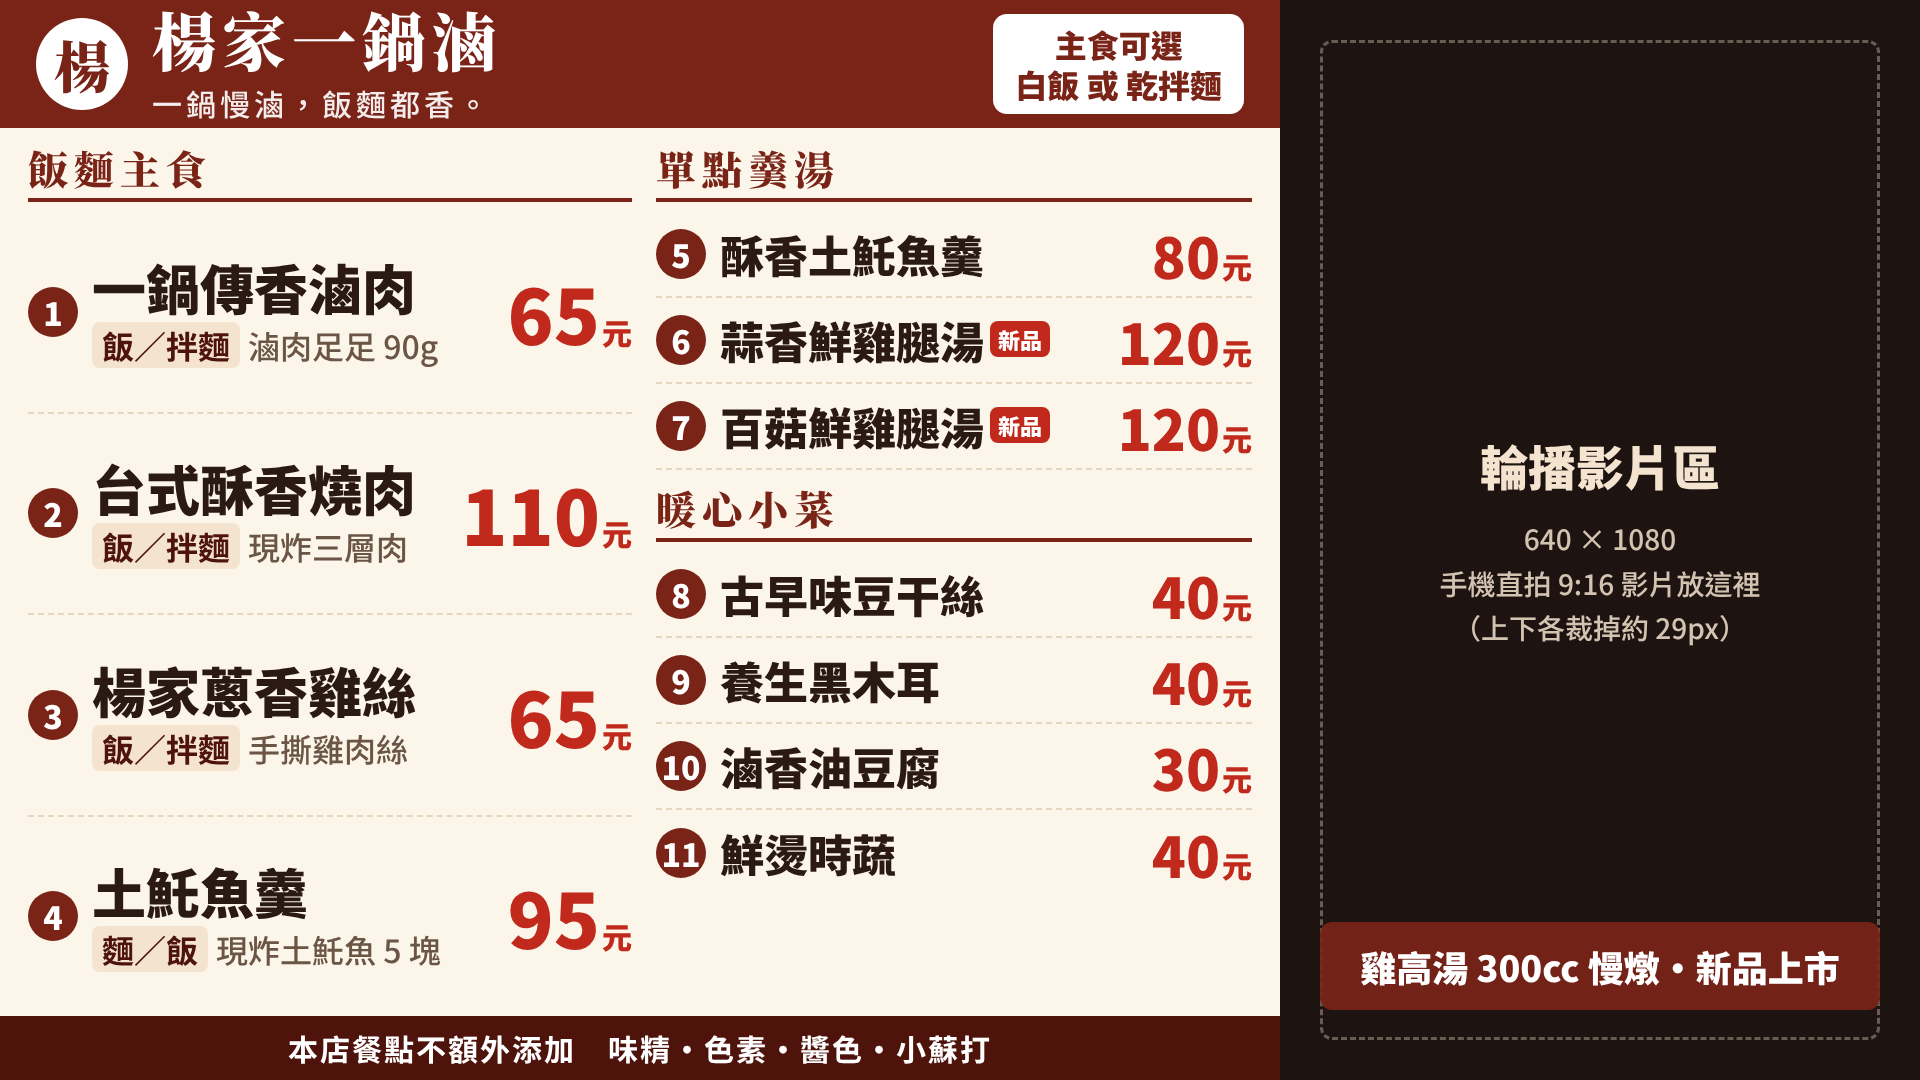
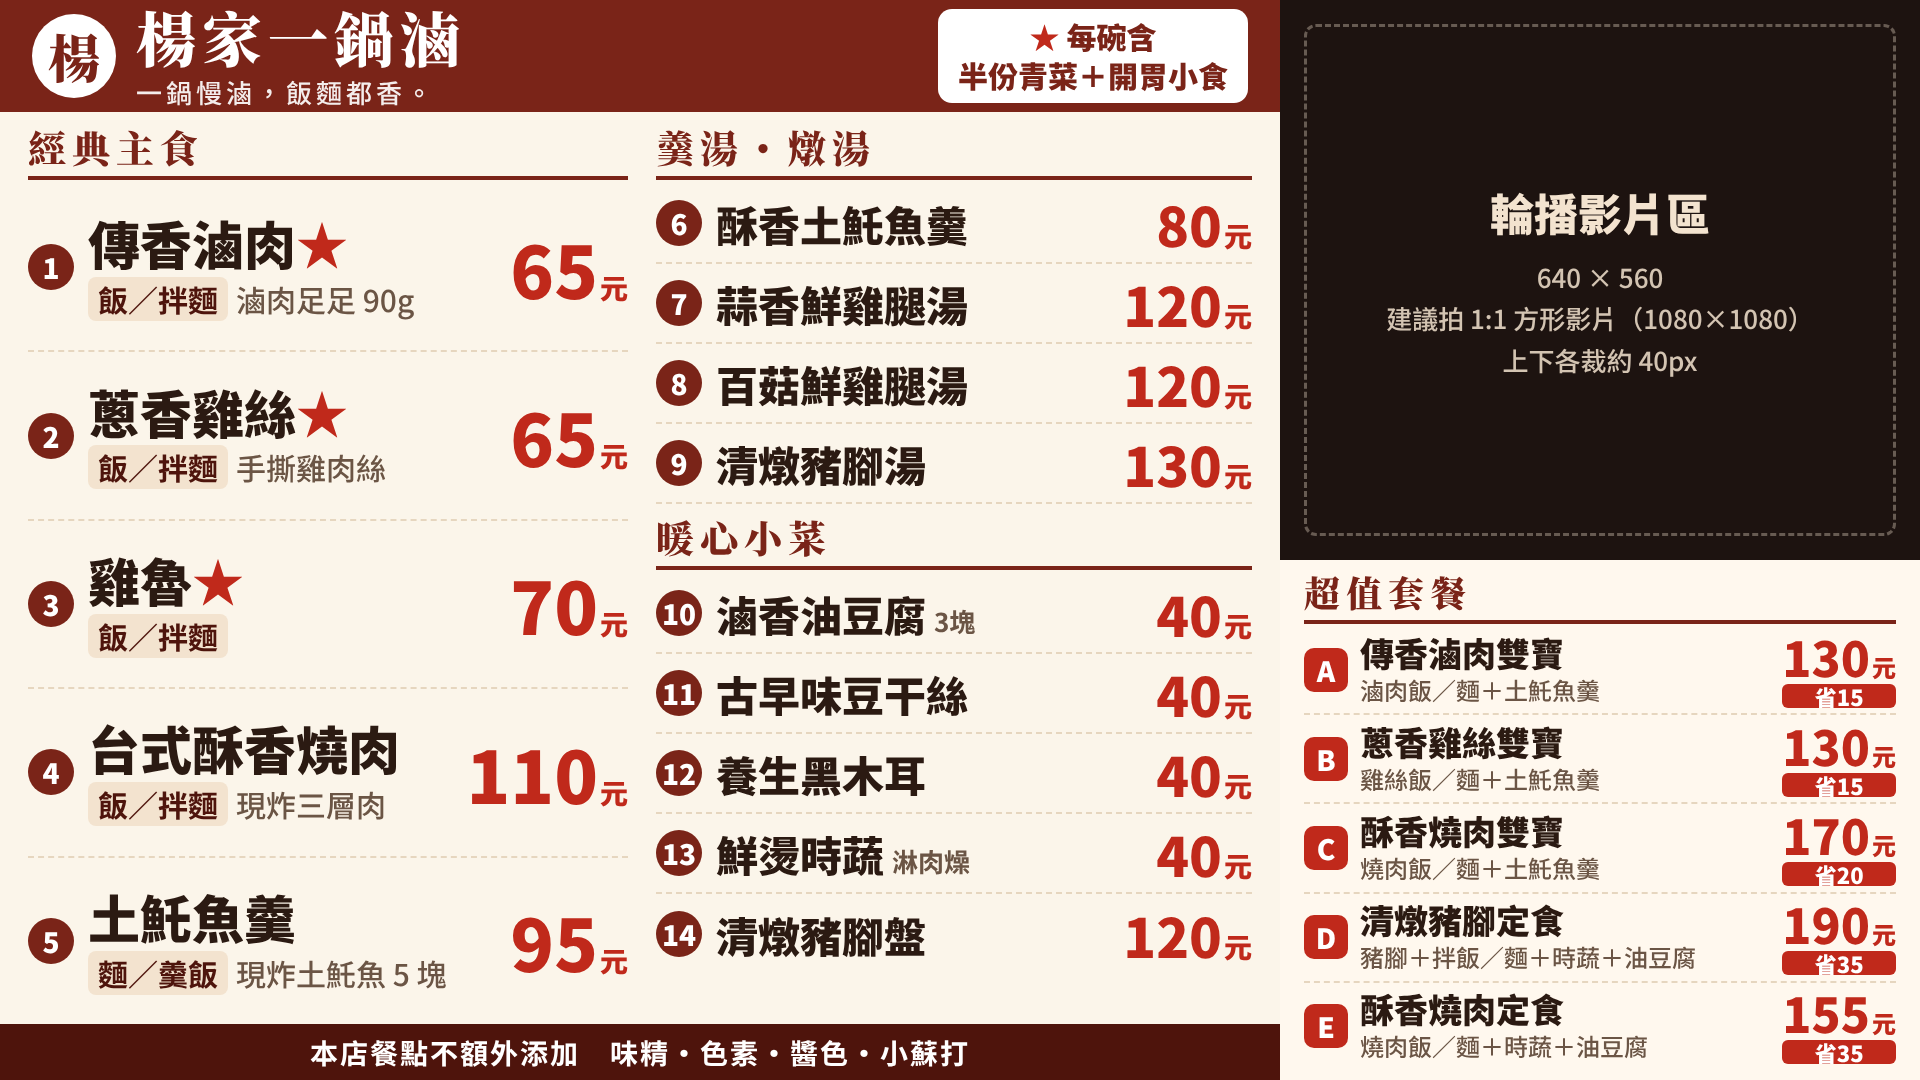
電視菜單依 A4 菜單 20261009 版更新：14 單品＋5 套餐
- 右 1/3 改為上方影片 640x560、下方超值套餐常駐
- E 套餐省額依單點價改為省35（110+40+40=190，190-155）

Claude-Session: https://claude.ai/code/session_012jfQNnpYWtyMBAdRHKhcxR

diff --git a/tv-menu/menu.html b/tv-menu/menu.html
@@ -5,16 +5,19 @@
 <title>楊家一鍋滷 電視菜單</title>
 <link href="https://fonts.googleapis.com/css2?family=Noto+Sans+TC:wght@500;700;900&family=Noto+Serif+TC:wght@700;900&display=swap" rel="stylesheet">
 <style>
-  /* 畫布固定 1920x1080（Full HD），左 2/3 菜單 1280px，右 1/3 影片 640px */
+  /* 畫布固定 1920x1080（Full HD）
+     左 2/3（1280px）：單點價目，常駐不輪播
+     右 1/3（640px）：上方輪播影片 640x560、下方超值套餐，常駐
+     資料來源：單色點餐菜單 A4 版 20261009 */
   :root {
     --brand: #7a2418;
     --brand-dark: #4e140c;
     --cream: #fbf5ea;
-    --card: #ffffff;
     --line: #e6d6bf;
     --ink: #2b1a12;
     --sub: #6b5545;
     --price: #c0291b;
+    --tag: #f3e3cf;
   }
   * { margin: 0; padding: 0; box-sizing: border-box; }
   body { width: 1920px; height: 1080px; overflow: hidden; background: var(--cream);
@@ -22,59 +25,68 @@
 
   .menu { width: 1280px; height: 1080px; display: flex; flex-direction: column; }
 
-  header { height: 128px; background: var(--brand); color: #fff; display: flex; align-items: center;
-           padding: 0 36px; gap: 24px; }
-  .logo { width: 92px; height: 92px; border-radius: 50%; background: #fff; color: var(--brand);
-          font: 900 56px/92px "Noto Serif TC", serif; text-align: center; flex: none; }
-  .brand h1 { font: 900 64px/1.1 "Noto Serif TC", serif; letter-spacing: 6px; }
-  .brand p { font-size: 30px; margin-top: 8px; opacity: .92; letter-spacing: 4px; }
+  header { height: 112px; background: var(--brand); color: #fff; display: flex; align-items: center;
+           padding: 0 32px; gap: 20px; flex: none; }
+  .logo { width: 84px; height: 84px; border-radius: 50%; background: #fff; color: var(--brand);
+          font: 900 52px/84px "Noto Serif TC", serif; text-align: center; flex: none; }
+  .brand h1 { font: 900 60px/1.1 "Noto Serif TC", serif; letter-spacing: 6px; }
+  .brand p { font-size: 26px; margin-top: 4px; opacity: .92; letter-spacing: 4px; }
   .tip { margin-left: auto; background: #fff; color: var(--brand); border-radius: 14px;
-         padding: 10px 22px; font-size: 32px; font-weight: 900; line-height: 1.25; text-align: center; }
+         padding: 8px 20px; font-size: 30px; font-weight: 900; line-height: 1.3; text-align: center; }
 
-  .body { flex: 1; display: flex; gap: 24px; padding: 20px 28px 0; }
+  .body { flex: 1; display: flex; gap: 28px; padding: 16px 28px 0; min-height: 0; }
   .col { display: flex; flex-direction: column; min-width: 0; }
-  .col.main { flex: 0 0 604px; }
+  .col.main { flex: 0 0 600px; }
   .col.side { flex: 1; }
-  h2 { font: 900 40px/1 "Noto Serif TC", serif; color: var(--brand); letter-spacing: 6px;
-       border-bottom: 4px solid var(--brand); padding-bottom: 10px; margin-bottom: 10px; }
-  h2 small { font: 700 26px "Noto Sans TC"; letter-spacing: 1px; color: var(--sub); margin-left: 10px; }
+  h2 { font: 900 38px/1 "Noto Serif TC", serif; color: var(--brand); letter-spacing: 6px;
+       border-bottom: 4px solid var(--brand); padding-bottom: 10px; margin-bottom: 4px; flex: none; }
 
   .row { display: flex; align-items: center; gap: 14px; border-bottom: 2px dashed var(--line); }
   .row:last-child { border-bottom: 0; }
-  .no { width: 50px; height: 50px; border-radius: 50%; background: var(--brand); color: #fff;
-        font: 900 32px/50px "Noto Sans TC"; text-align: center; flex: none; }
+  .no { width: 46px; height: 46px; border-radius: 50%; background: var(--brand); color: #fff;
+        font: 900 28px/46px "Noto Sans TC"; text-align: center; flex: none; }
   .name { flex: 1; min-width: 0; }
   .name b { display: block; font-weight: 900; white-space: nowrap; }
+  .name b small { font-size: .62em; color: var(--sub); font-weight: 700; margin-left: 8px; }
   .name i { display: block; font-style: normal; color: var(--sub); white-space: nowrap; }
   .price { color: var(--price); font-weight: 900; white-space: nowrap; flex: none; }
-  .price span { font-size: 30px; margin-left: 2px; }
+  .price span { font-size: 28px; margin-left: 2px; }
 
   /* 主食：字最大 */
   .main .row { flex: 1; }
-  .main .name b { font-size: 54px; line-height: 1.15; }
-  .main .name i { font-size: 32px; margin-top: 4px; }
-  .main .name i em { font-style: normal; background: #f3e3cf; color: var(--brand-dark);
+  .main .name b { font-size: 52px; line-height: 1.15; }
+  .main .name i { font-size: 30px; margin-top: 4px; }
+  .main .name i em { font-style: normal; background: var(--tag); color: var(--brand-dark);
                      padding: 0 10px; border-radius: 8px; margin-right: 8px; font-weight: 700; }
-  .main .price { font-size: 76px; }
+  .main .price { font-size: 72px; }
+  .star { color: var(--price); }
 
-  .side .row { height: 86px; }
-  .side .name b { font-size: 44px; }
-  .side .price { font-size: 56px; }
-  .new { display: inline-block; background: var(--price); color: #fff; font-size: 22px;
-         padding: 2px 8px; border-radius: 8px; margin-left: 6px; vertical-align: 10px; font-weight: 900; }
-  .gap { height: 18px; }
+  .side .row { height: 80px; }
+  .side .name b { font-size: 42px; }
+  .side .price { font-size: 54px; }
+  .gap { height: 14px; flex: none; }
 
-  footer { height: 64px; background: var(--brand-dark); color: #fff; font-size: 30px; font-weight: 700;
-           display: flex; align-items: center; justify-content: center; letter-spacing: 2px; }
+  footer { height: 56px; background: var(--brand-dark); color: #fff; font-size: 28px; font-weight: 700;
+           display: flex; align-items: center; justify-content: center; letter-spacing: 2px; flex: none; }
 
-  /* 右 1/3：輪播影片區（示意） */
-  .video { width: 640px; height: 1080px; background: #1d1310; color: #f3e3cf; position: relative;
+  /* 右 1/3 */
+  .right { width: 640px; height: 1080px; display: flex; flex-direction: column; background: var(--brand-dark); }
+  .video { height: 560px; background: #1d1310; color: #f3e3cf; position: relative; flex: none;
            display: flex; flex-direction: column; align-items: center; justify-content: center; text-align: center; }
-  .video .safe { position: absolute; inset: 40px; border: 3px dashed rgba(243,227,207,.35); border-radius: 12px; }
-  .video h3 { font-size: 48px; font-weight: 900; }
-  .video p { font-size: 28px; margin-top: 16px; line-height: 1.6; opacity: .85; }
-  .video .cap { position: absolute; bottom: 70px; left: 40px; right: 40px; background: rgba(122,36,24,.92);
-                color: #fff; font-size: 36px; font-weight: 900; padding: 18px; border-radius: 12px; }
+  .video .safe { position: absolute; inset: 24px; border: 3px dashed rgba(243,227,207,.35); border-radius: 12px; }
+  .video h3 { font-size: 44px; font-weight: 900; }
+  .video p { font-size: 26px; margin-top: 12px; line-height: 1.6; opacity: .85; }
+
+  .combo { flex: 1; background: #fff8ee; padding: 14px 24px 10px; display: flex; flex-direction: column; }
+  .combo h2 { font-size: 36px; margin-bottom: 2px; }
+  .combo .row { flex: 1; gap: 12px; }
+  .combo .no { width: 44px; height: 44px; font-size: 28px; line-height: 44px; border-radius: 10px; background: var(--price); }
+  .combo .name b { font-size: 34px; line-height: 1.15; }
+  .combo .name i { font-size: 24px; }
+  .combo .price { font-size: 48px; text-align: right; line-height: 1; }
+  .combo .price span { font-size: 24px; }
+  .combo .save { display: block; font-size: 22px; font-style: normal; color: #fff; background: var(--price);
+                 border-radius: 6px; padding: 1px 6px; margin-top: 4px; text-align: center; }
 </style>
 </head>
 <body>
@@ -85,56 +97,72 @@
       <h1>楊家一鍋滷</h1>
       <p>一鍋慢滷，飯麵都香。</p>
     </div>
-    <div class="tip">主食可選<br>白飯 或 乾拌麵</div>
+    <div class="tip"><span class="star">★</span> 每碗含<br>半份青菜＋開胃小食</div>
   </header>
 
   <div class="body">
     <div class="col main">
-      <h2>飯麵主食</h2>
+      <h2>經典主食</h2>
       <div class="row">
         <div class="no">1</div>
-        <div class="name"><b>一鍋傳香滷肉</b><i><em>飯／拌麵</em>滷肉足足 90g</i></div>
+        <div class="name"><b>傳香滷肉<span class="star">★</span></b><i><em>飯／拌麵</em>滷肉足足 90g</i></div>
         <div class="price">65<span>元</span></div>
       </div>
       <div class="row">
         <div class="no">2</div>
+        <div class="name"><b>蔥香雞絲<span class="star">★</span></b><i><em>飯／拌麵</em>手撕雞肉絲</i></div>
+        <div class="price">65<span>元</span></div>
+      </div>
+      <div class="row">
+        <div class="no">3</div>
+        <div class="name"><b>雞魯<span class="star">★</span></b><i><em>飯／拌麵</em></i></div>
+        <div class="price">70<span>元</span></div>
+      </div>
+      <div class="row">
+        <div class="no">4</div>
         <div class="name"><b>台式酥香燒肉</b><i><em>飯／拌麵</em>現炸三層肉</i></div>
         <div class="price">110<span>元</span></div>
       </div>
       <div class="row">
-        <div class="no">3</div>
-        <div class="name"><b>楊家蔥香雞絲</b><i><em>飯／拌麵</em>手撕雞肉絲</i></div>
-        <div class="price">65<span>元</span></div>
-      </div>
-      <div class="row">
-        <div class="no">4</div>
-        <div class="name"><b>土魠魚羹</b><i><em>麵／飯</em>現炸土魠魚 5 塊</i></div>
+        <div class="no">5</div>
+        <div class="name"><b>土魠魚羹</b><i><em>麵／羹飯</em>現炸土魠魚 5 塊</i></div>
         <div class="price">95<span>元</span></div>
       </div>
     </div>
 
     <div class="col side">
-      <h2>單點羹湯</h2>
-      <div class="row"><div class="no">5</div><div class="name"><b>酥香土魠魚羹</b></div><div class="price">80<span>元</span></div></div>
-      <div class="row"><div class="no">6</div><div class="name"><b>蒜香鮮雞腿湯<span class="new">新品</span></b></div><div class="price">120<span>元</span></div></div>
-      <div class="row"><div class="no">7</div><div class="name"><b>百菇鮮雞腿湯<span class="new">新品</span></b></div><div class="price">120<span>元</span></div></div>
+      <h2>羹湯・燉湯</h2>
+      <div class="row"><div class="no">6</div><div class="name"><b>酥香土魠魚羹</b></div><div class="price">80<span>元</span></div></div>
+      <div class="row"><div class="no">7</div><div class="name"><b>蒜香鮮雞腿湯</b></div><div class="price">120<span>元</span></div></div>
+      <div class="row"><div class="no">8</div><div class="name"><b>百菇鮮雞腿湯</b></div><div class="price">120<span>元</span></div></div>
+      <div class="row"><div class="no">9</div><div class="name"><b>清燉豬腳湯</b></div><div class="price">130<span>元</span></div></div>
       <div class="gap"></div>
       <h2>暖心小菜</h2>
-      <div class="row"><div class="no">8</div><div class="name"><b>古早味豆干絲</b></div><div class="price">40<span>元</span></div></div>
-      <div class="row"><div class="no">9</div><div class="name"><b>養生黑木耳</b></div><div class="price">40<span>元</span></div></div>
-      <div class="row"><div class="no">10</div><div class="name"><b>滷香油豆腐</b></div><div class="price">30<span>元</span></div></div>
-      <div class="row"><div class="no">11</div><div class="name"><b>鮮燙時蔬</b></div><div class="price">40<span>元</span></div></div>
+      <div class="row"><div class="no">10</div><div class="name"><b>滷香油豆腐<small>3塊</small></b></div><div class="price">40<span>元</span></div></div>
+      <div class="row"><div class="no">11</div><div class="name"><b>古早味豆干絲</b></div><div class="price">40<span>元</span></div></div>
+      <div class="row"><div class="no">12</div><div class="name"><b>養生黑木耳</b></div><div class="price">40<span>元</span></div></div>
+      <div class="row"><div class="no">13</div><div class="name"><b>鮮燙時蔬<small>淋肉燥</small></b></div><div class="price">40<span>元</span></div></div>
+      <div class="row"><div class="no">14</div><div class="name"><b>清燉豬腳盤</b></div><div class="price">120<span>元</span></div></div>
     </div>
   </div>
 
   <footer>本店餐點不額外添加　味精・色素・醬色・小蘇打</footer>
 </section>
 
-<section class="video">
-  <div class="safe"></div>
-  <h3>輪播影片區</h3>
-  <p>640 × 1080<br>手機直拍 9:16 影片放這裡<br>（上下各裁掉約 29px）</p>
-  <div class="cap">雞高湯 300cc 慢燉・新品上市</div>
+<section class="right">
+  <div class="video">
+    <div class="safe"></div>
+    <h3>輪播影片區</h3>
+    <p>640 × 560<br>建議拍 1:1 方形影片（1080×1080）<br>上下各裁約 40px</p>
+  </div>
+  <div class="combo">
+    <h2>超值套餐</h2>
+    <div class="row"><div class="no">A</div><div class="name"><b>傳香滷肉雙寶</b><i>滷肉飯／麵＋土魠魚羹</i></div><div class="price">130<span>元</span><em class="save">省15</em></div></div>
+    <div class="row"><div class="no">B</div><div class="name"><b>蔥香雞絲雙寶</b><i>雞絲飯／麵＋土魠魚羹</i></div><div class="price">130<span>元</span><em class="save">省15</em></div></div>
+    <div class="row"><div class="no">C</div><div class="name"><b>酥香燒肉雙寶</b><i>燒肉飯／麵＋土魠魚羹</i></div><div class="price">170<span>元</span><em class="save">省20</em></div></div>
+    <div class="row"><div class="no">D</div><div class="name"><b>清燉豬腳定食</b><i>豬腳＋拌飯／麵＋時蔬＋油豆腐</i></div><div class="price">190<span>元</span><em class="save">省35</em></div></div>
+    <div class="row"><div class="no">E</div><div class="name"><b>酥香燒肉定食</b><i>燒肉飯／麵＋時蔬＋油豆腐</i></div><div class="price">155<span>元</span><em class="save">省35</em></div></div>
+  </div>
 </section>
 </body>
 </html>
